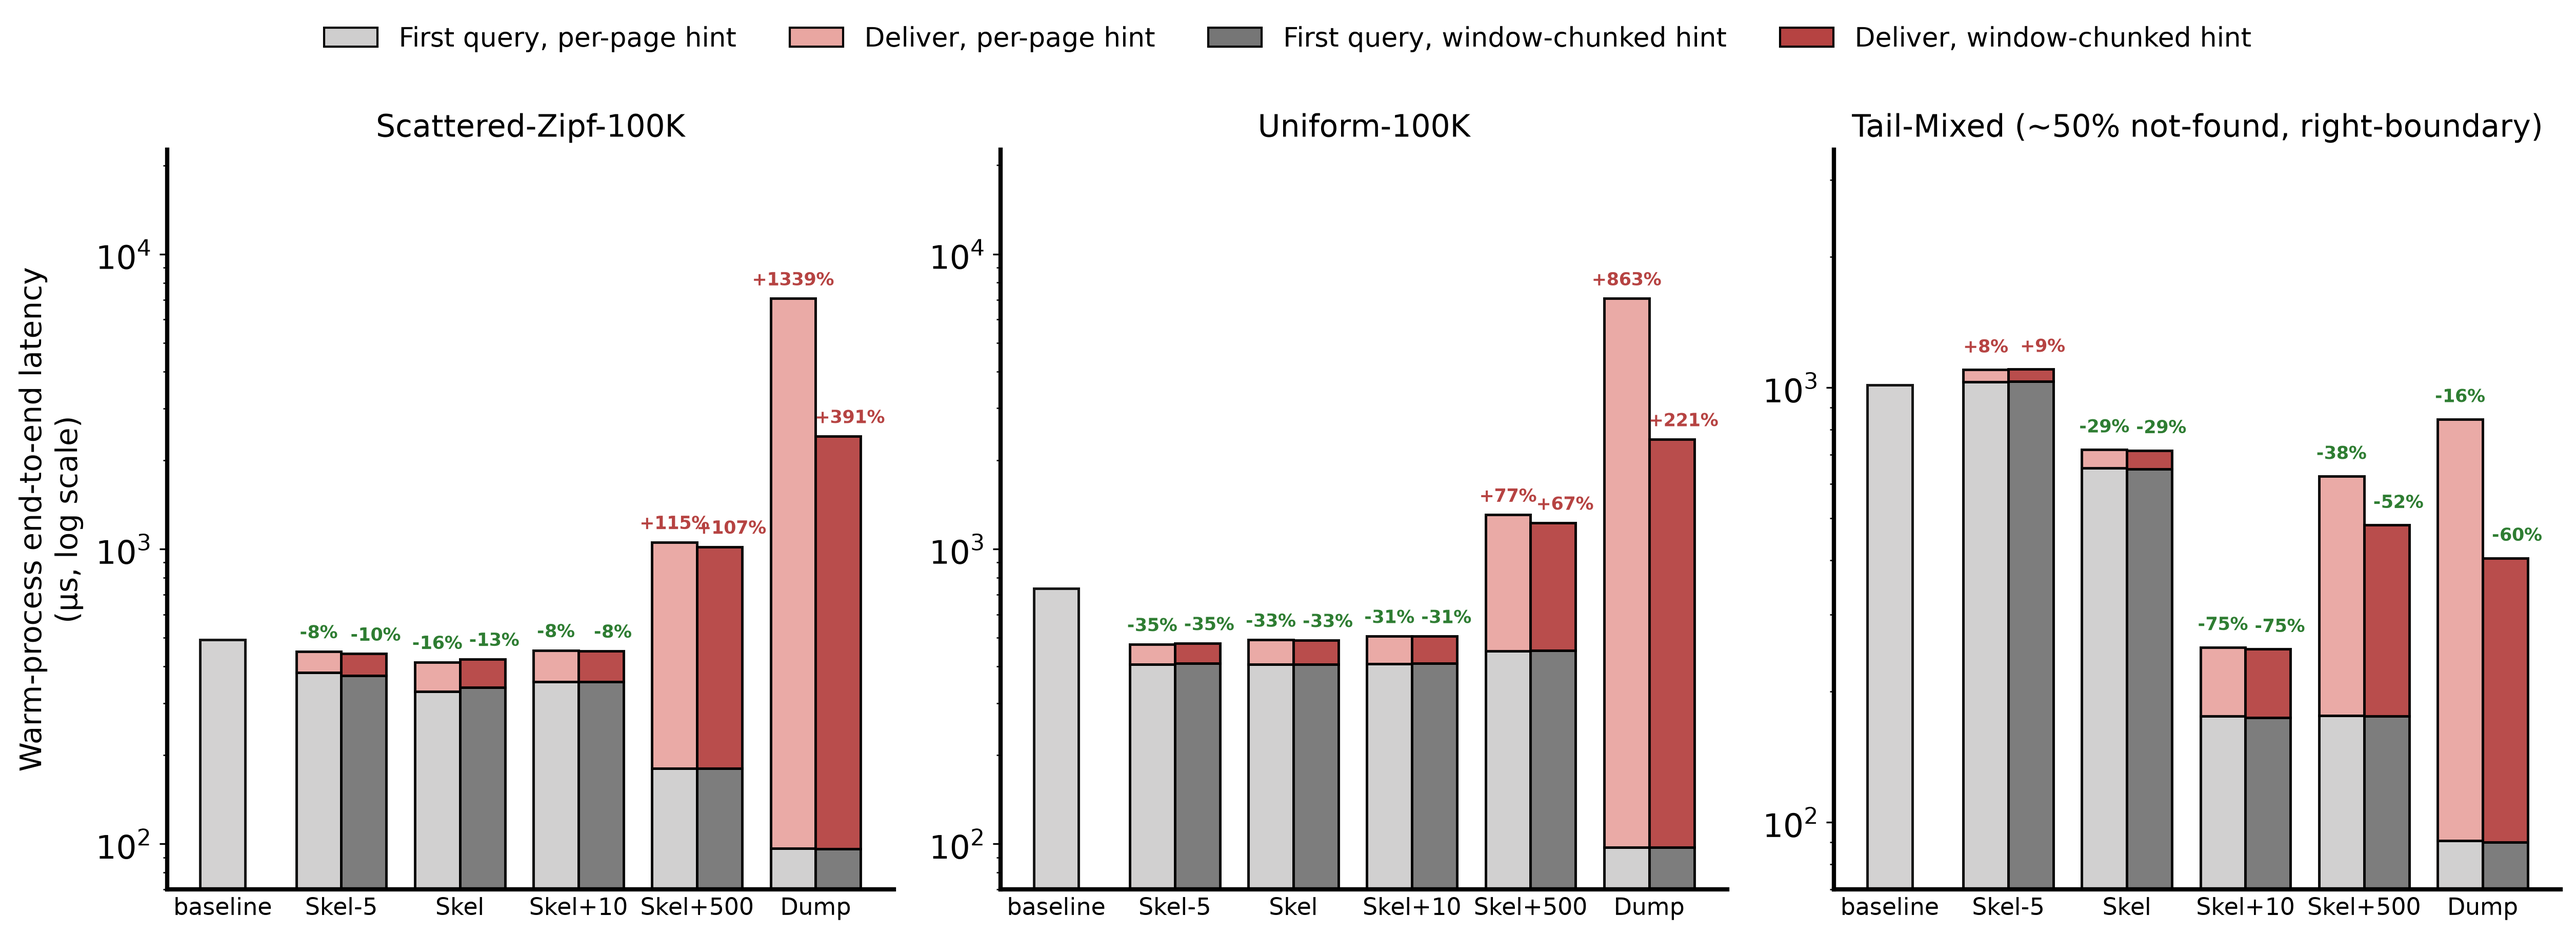
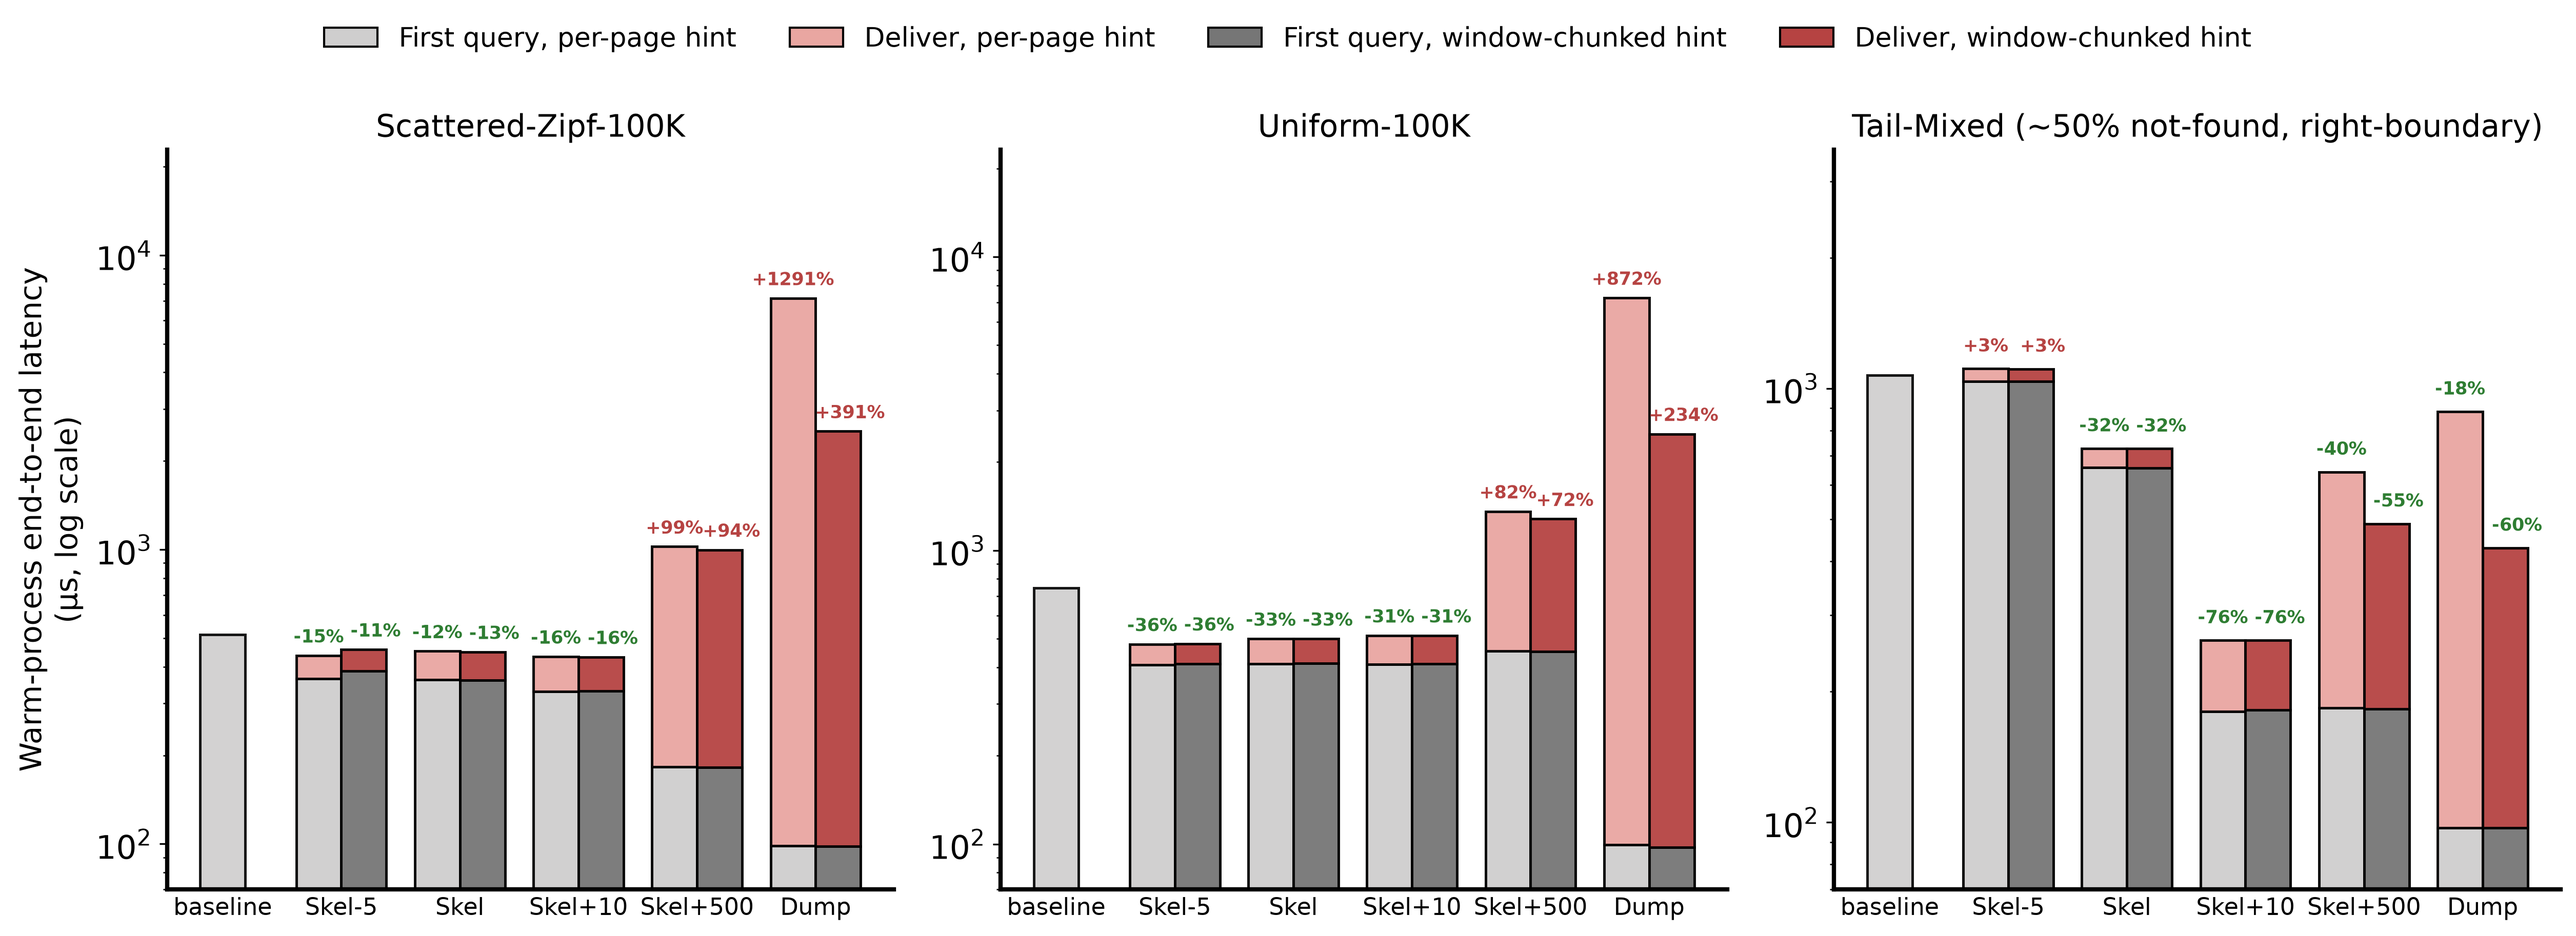
figures: Figures 13 and 14 from unified_v7 seed 1
Both scripts now read results/unified_v7/seed01/summary.csv; docstrings
updated (seed 1's Scattered-Zipf baseline 514 us against 828-1036 on the
other nine seeds). Figure 14 keeps parsing inside the window-chunked
deliver block, as since 2229950. Regenerated outputs in figures/out/;
the paper copies them.

diff --git a/figures/14_strategy_endtoend_stacked.py b/figures/14_strategy_endtoend_stacked.py
@@ -1,7 +1,7 @@
 """Figure 14: Warm-process end-to-end cold-start decomposition.
 
-Single canonical batch: results/unified_v6, seed01 (2026-09-23). Stacked
-absolute microseconds require one machine state, and unified_v6 measured every
+Single canonical batch: results/unified_v7, seed01 (2026-10-08). Stacked
+absolute microseconds require one machine state, and unified_v7 measured every
 arm in ONE continuous window, so the absolute stack here matches the paper's
 result tables.
 
@@ -16,7 +16,7 @@ tower collapses and the targeted arms barely change. Green/red label = e2e_warm
 vs the same-batch baseline, which is the leftmost bar of each panel.
 
 Caveat carried from the batch: seed01's Scattered-Zipf baseline is a genuine
-instantiation outlier (492 us against 828-1024 on the other nine seeds), so the
+instantiation outlier (514 us against 828-1036 on the other nine seeds), so the
 Dump percentage here reads worse than the cross-seed figure. The absolute stack
 is unaffected, and the labels match Table 5, which quotes the same seed.
 
@@ -37,7 +37,7 @@ import numpy as np
 from pub_style import apply
 apply()
 
-UNIFIED = ROOT / "results/unified_v6/seed01/summary.csv"
+UNIFIED = ROOT / "results/unified_v7/seed01/summary.csv"
 
 # Aligned with Figure 13's strategy set (plus the baseline reference bar).
 ARMS      = ['baseline', 'layers_5', '2d', '2e_K10', '2e_K500', '2f_slru']
@@ -91,7 +91,7 @@ fig, axes = plt.subplots(1, 3, figsize=(17, 6.2), sharey=False)
 x = np.arange(len(ARMS))
 W = 0.38                      # paired-bar width
 
-print("Figure 14 - plotted cells (unified_v6 seed01, async vs async_win):")
+print("Figure 14 - plotted cells (unified_v7 seed01, async vs async_win):")
 for ax, wl in zip(axes, WORKLOADS):
     baseline = get(wl, 'baseline')[0]
     tops = []

diff --git a/figures/13_strategy_firstq_bars.py b/figures/13_strategy_firstq_bars.py
@@ -1,6 +1,6 @@
 """Figure 13: Paired first-query reduction by strategy, per workload.
 
-Single canonical batch: results/unified_v6, seed01 (2026-09-23). Every cell --
+Single canonical batch: results/unified_v7, seed01 (2026-10-08). Every cell --
 including the frequency-ranked 2e_K* arms -- was measured in ONE run with the
 corrected (-count, pageno) tie-break, so no per-cell source selection is needed.
 This is the same batch that backs the paper's four result tables, so the figure
@@ -23,7 +23,7 @@ import numpy as np
 from pub_style import PALETTE, apply
 apply()
 
-UNIFIED   = ROOT / "results/unified_v6/seed01/summary.csv"
+UNIFIED   = ROOT / "results/unified_v7/seed01/summary.csv"
 ARMS      = ['layers_5', '2d', '2e_K10', '2e_K500', '2f_slru']
 ARM_LABEL = {'layers_5': 'Skel-5', '2d': 'Skel', '2e_K10': 'Skel+10',
              '2e_K500': 'Skel+500', '2f_slru': 'Dump'}
